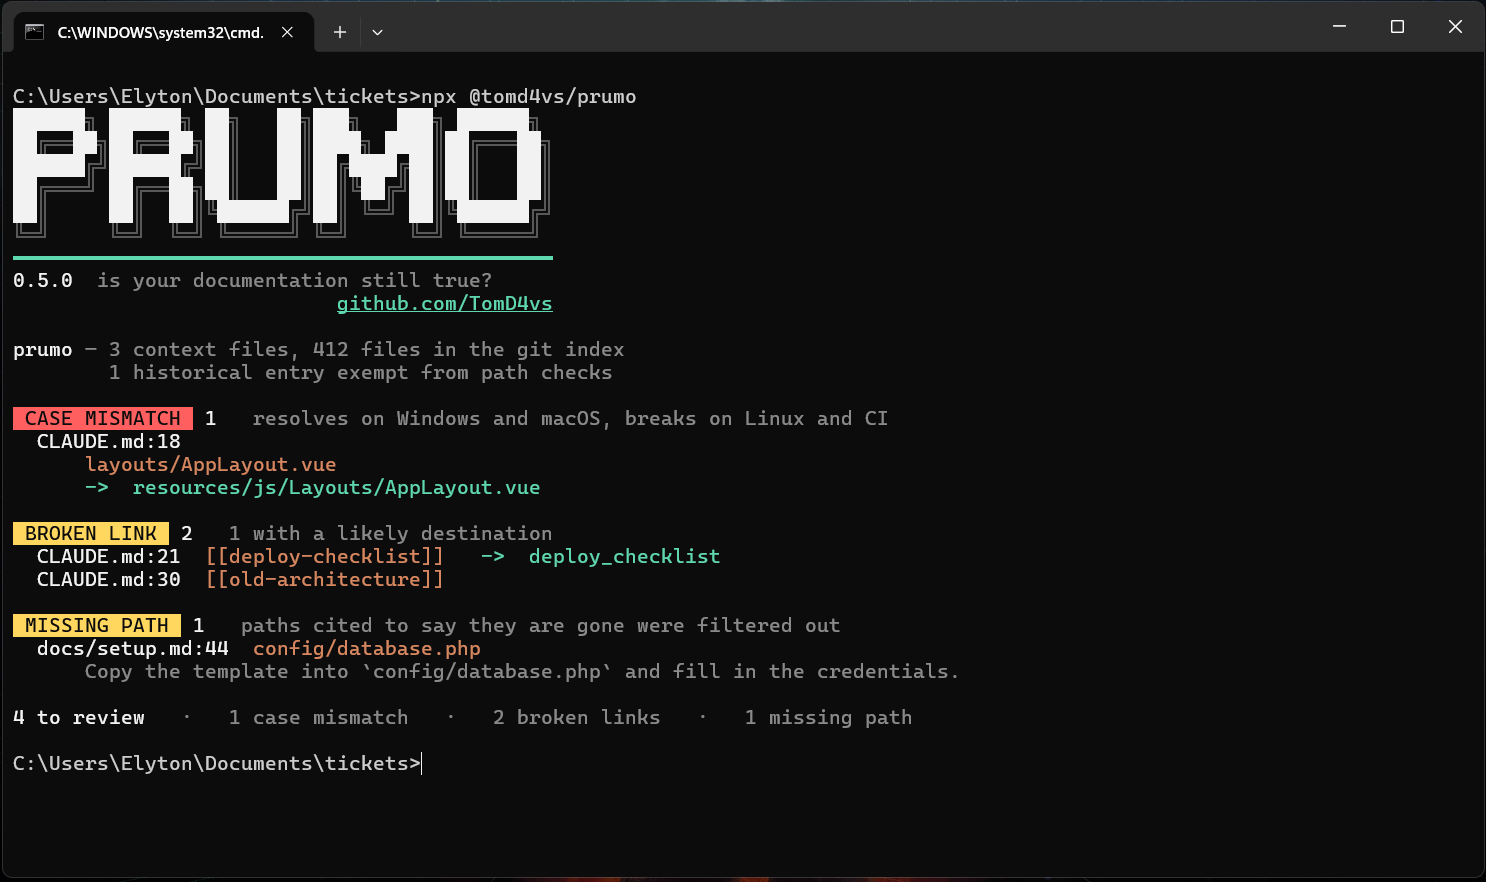
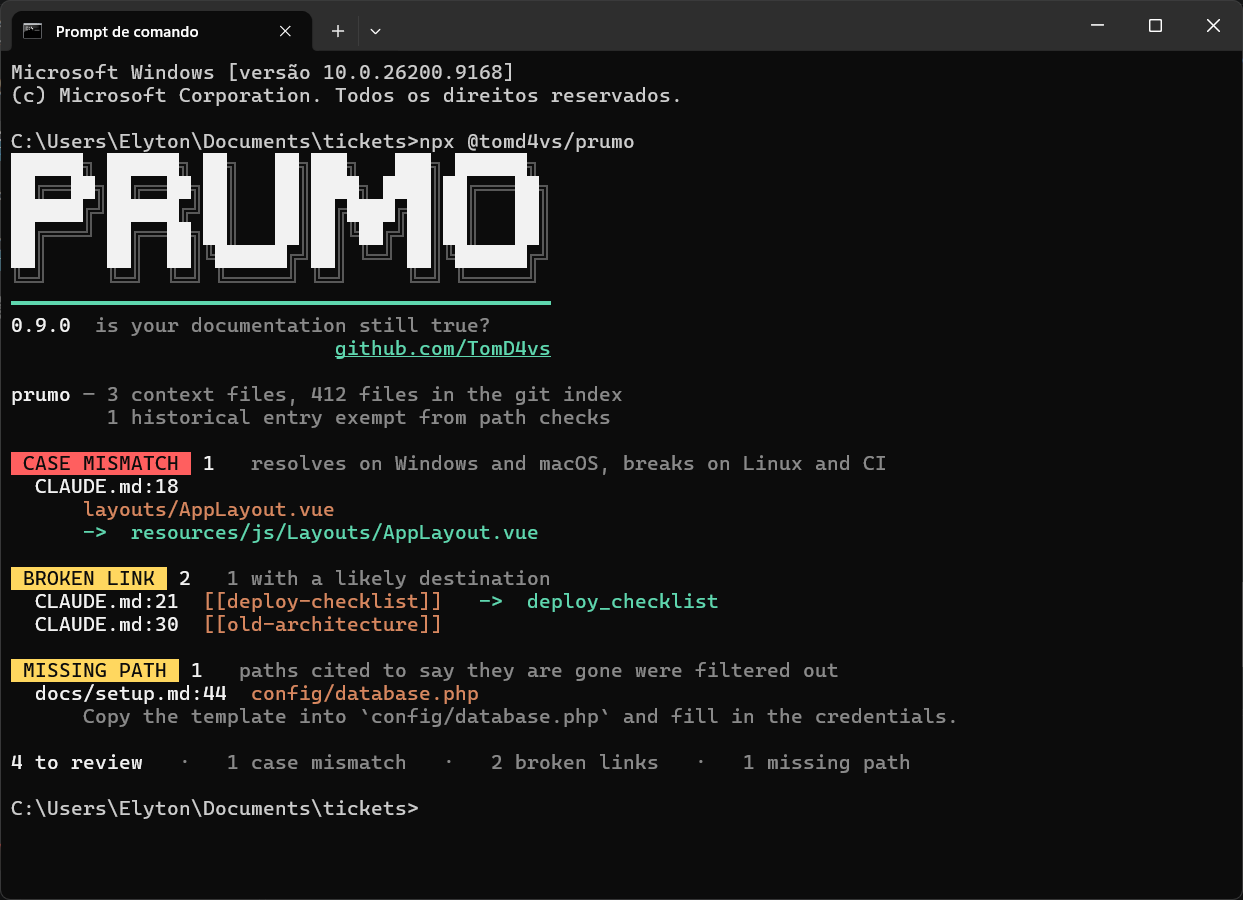
A recorded demo at the top of the README, and the AGENTS.md catches up with 0.9.0

diff --git a/AGENTS.md b/AGENTS.md
@@ -5,13 +5,15 @@ still match the code. Node 18+, ESM, no build step.
 
 ## Layout
 
-- `bin/prumo.mjs` — CLI: argument parsing, then the report. No analysis lives here.
-- `bin/prumo-mcp.mjs` — MCP server over stdio, two tools, same analysis and same report.
+- `bin/prumo.mjs` — CLI: argument parsing, then the report, or one of the two reports, `drift` and `budget`. No analysis lives here.
+- `bin/prumo-mcp.mjs` — MCP server over stdio, four tools, same analysis and same reports.
 - `src/check.mjs` — the five checks, exported as `analyze()` and `resolveTargets()`.
+- `src/drift.mjs` and `src/budget.mjs` — the two reports, `drift()` and `budget()`: git blame and git log behind the sections of a note, and the size, growth and repeated paragraphs of each file. Neither is a check.
+- `src/index.mjs` — what the package exports: everything from the modules above and below.
 - `src/fix.mjs` — the only automatic rewrites: case mismatches, and the renames git recorded.
 - `src/report.mjs` — the text and GitHub renderers, shared by the CLI and the MCP server. Colour is a flag the CLI sets for a terminal; without it the text is the contract the README shows.
 - `src/banner.mjs` — the name and version above the report, printed only when stdout is a terminal.
-- `test/check.test.mjs`, `test/report.test.mjs`, `test/mcp.test.mjs`, `test/banner.test.mjs`, `test/baseline.test.mjs`, `test/history.test.mjs` — the suite: the analysis and the fix, the baseline and the limits to what changed, the history behind a missing path, the two renderers, the server driven over stdio, and the banner. Every test that needs a repository builds a throwaway one.
+- `test/check.test.mjs`, `test/report.test.mjs`, `test/mcp.test.mjs`, `test/banner.test.mjs`, `test/baseline.test.mjs`, `test/history.test.mjs`, `test/drift.test.mjs`, `test/budget.test.mjs` — the suite: the analysis and the fix, the baseline and the limits to what changed, the history behind a missing path, the two renderers, the server driven over stdio, the banner, and the two reports. Every test that needs a repository builds a throwaway one.
 - `test/simulate-new-user.sh` — a new user follows the README against the packed tarball; `npm run simulate`.
 - `action.yml` — the GitHub Action, `uses: TomD4vs/prumo@v1`: a composite step that runs the checked-out `bin/prumo.mjs`. Not in the npm tarball.
 - `.pre-commit-hooks.yaml` — the hook for the pre-commit framework; its `files:` regex is guarded by the same test as the hook in `docs/agents.md`.
@@ -20,6 +22,7 @@ still match the code. Node 18+, ESM, no build step.
   path is resolved. `docs/api.md` has the development recipes.
 - `CONTRIBUTING.md` — the bar an outside change has to clear, in both languages.
 - `assets/social.html` — source of `assets/social.png`, rendered headless at 1280x640.
+- `assets/demo.gif` and `assets/report.png` — the demo at the top of the README and the still image under "Reading the result", both from one recording of a real Windows Terminal window; `docs/api.md` says what is recorded.
 
 ## Running it
 

diff --git a/docs/api.pt-BR.md b/docs/api.pt-BR.md
@@ -86,3 +86,5 @@ msedge --headless=new --disable-gpu --no-first-run --user-data-dir=<tmp> \
 ```
 
 O `--virtual-time-budget` é obrigatório; sem ele a captura acontece antes de as fontes carregarem e o card sai com uma fonte de fallback.
+
+A demo no topo do README, `assets/demo.gif`, é uma gravação de uma janela real do Windows Terminal rodando o pacote publicado no repositório de exemplo, com `npx @tomd4vs/prumo` digitado num ritmo humano e o relatório aparecendo como ele imprime; o `assets/report.png`, mais abaixo no README, é o último quadro da mesma gravação. Os dois são refeitos sempre que o relatório muda de aparência, na máquina do mantenedor.

diff --git a/docs/api.md b/docs/api.md
@@ -86,3 +86,5 @@ msedge --headless=new --disable-gpu --no-first-run --user-data-dir=<tmp> \
 ```
 
 `--virtual-time-budget` is required; without it the shot lands before the web fonts load and the card renders in a fallback face.
+
+The demo at the top of the README, `assets/demo.gif`, is a recording of a real Windows Terminal window running the published package on the example repository, `npx @tomd4vs/prumo` typed at a human pace and the report as it prints; `assets/report.png`, further down the README, is the last frame of the same recording. Both are redone whenever the report changes its look, from the maintainer's machine.

diff --git a/LEIAME.md b/LEIAME.md
@@ -1,5 +1,5 @@
 <p align="center">
-  <img src="assets/social.png" alt="prumo — sua documentação ainda é verdade?" width="820">
+  <img src="assets/demo.gif" alt="prumo no terminal: um comando, depois uma capitalização errada, dois links quebrados e um caminho ausente, cada um com a correção" width="820">
 </p>
 
 <p align="center">

diff --git a/README.md b/README.md
@@ -1,5 +1,5 @@
 <p align="center">
-  <img src="assets/social.png" alt="prumo — is your documentation still true?" width="820">
+  <img src="assets/demo.gif" alt="prumo in a terminal: one command, then a case mismatch, two broken links and a missing path, each with its correction" width="820">
 </p>
 
 <p align="center">
